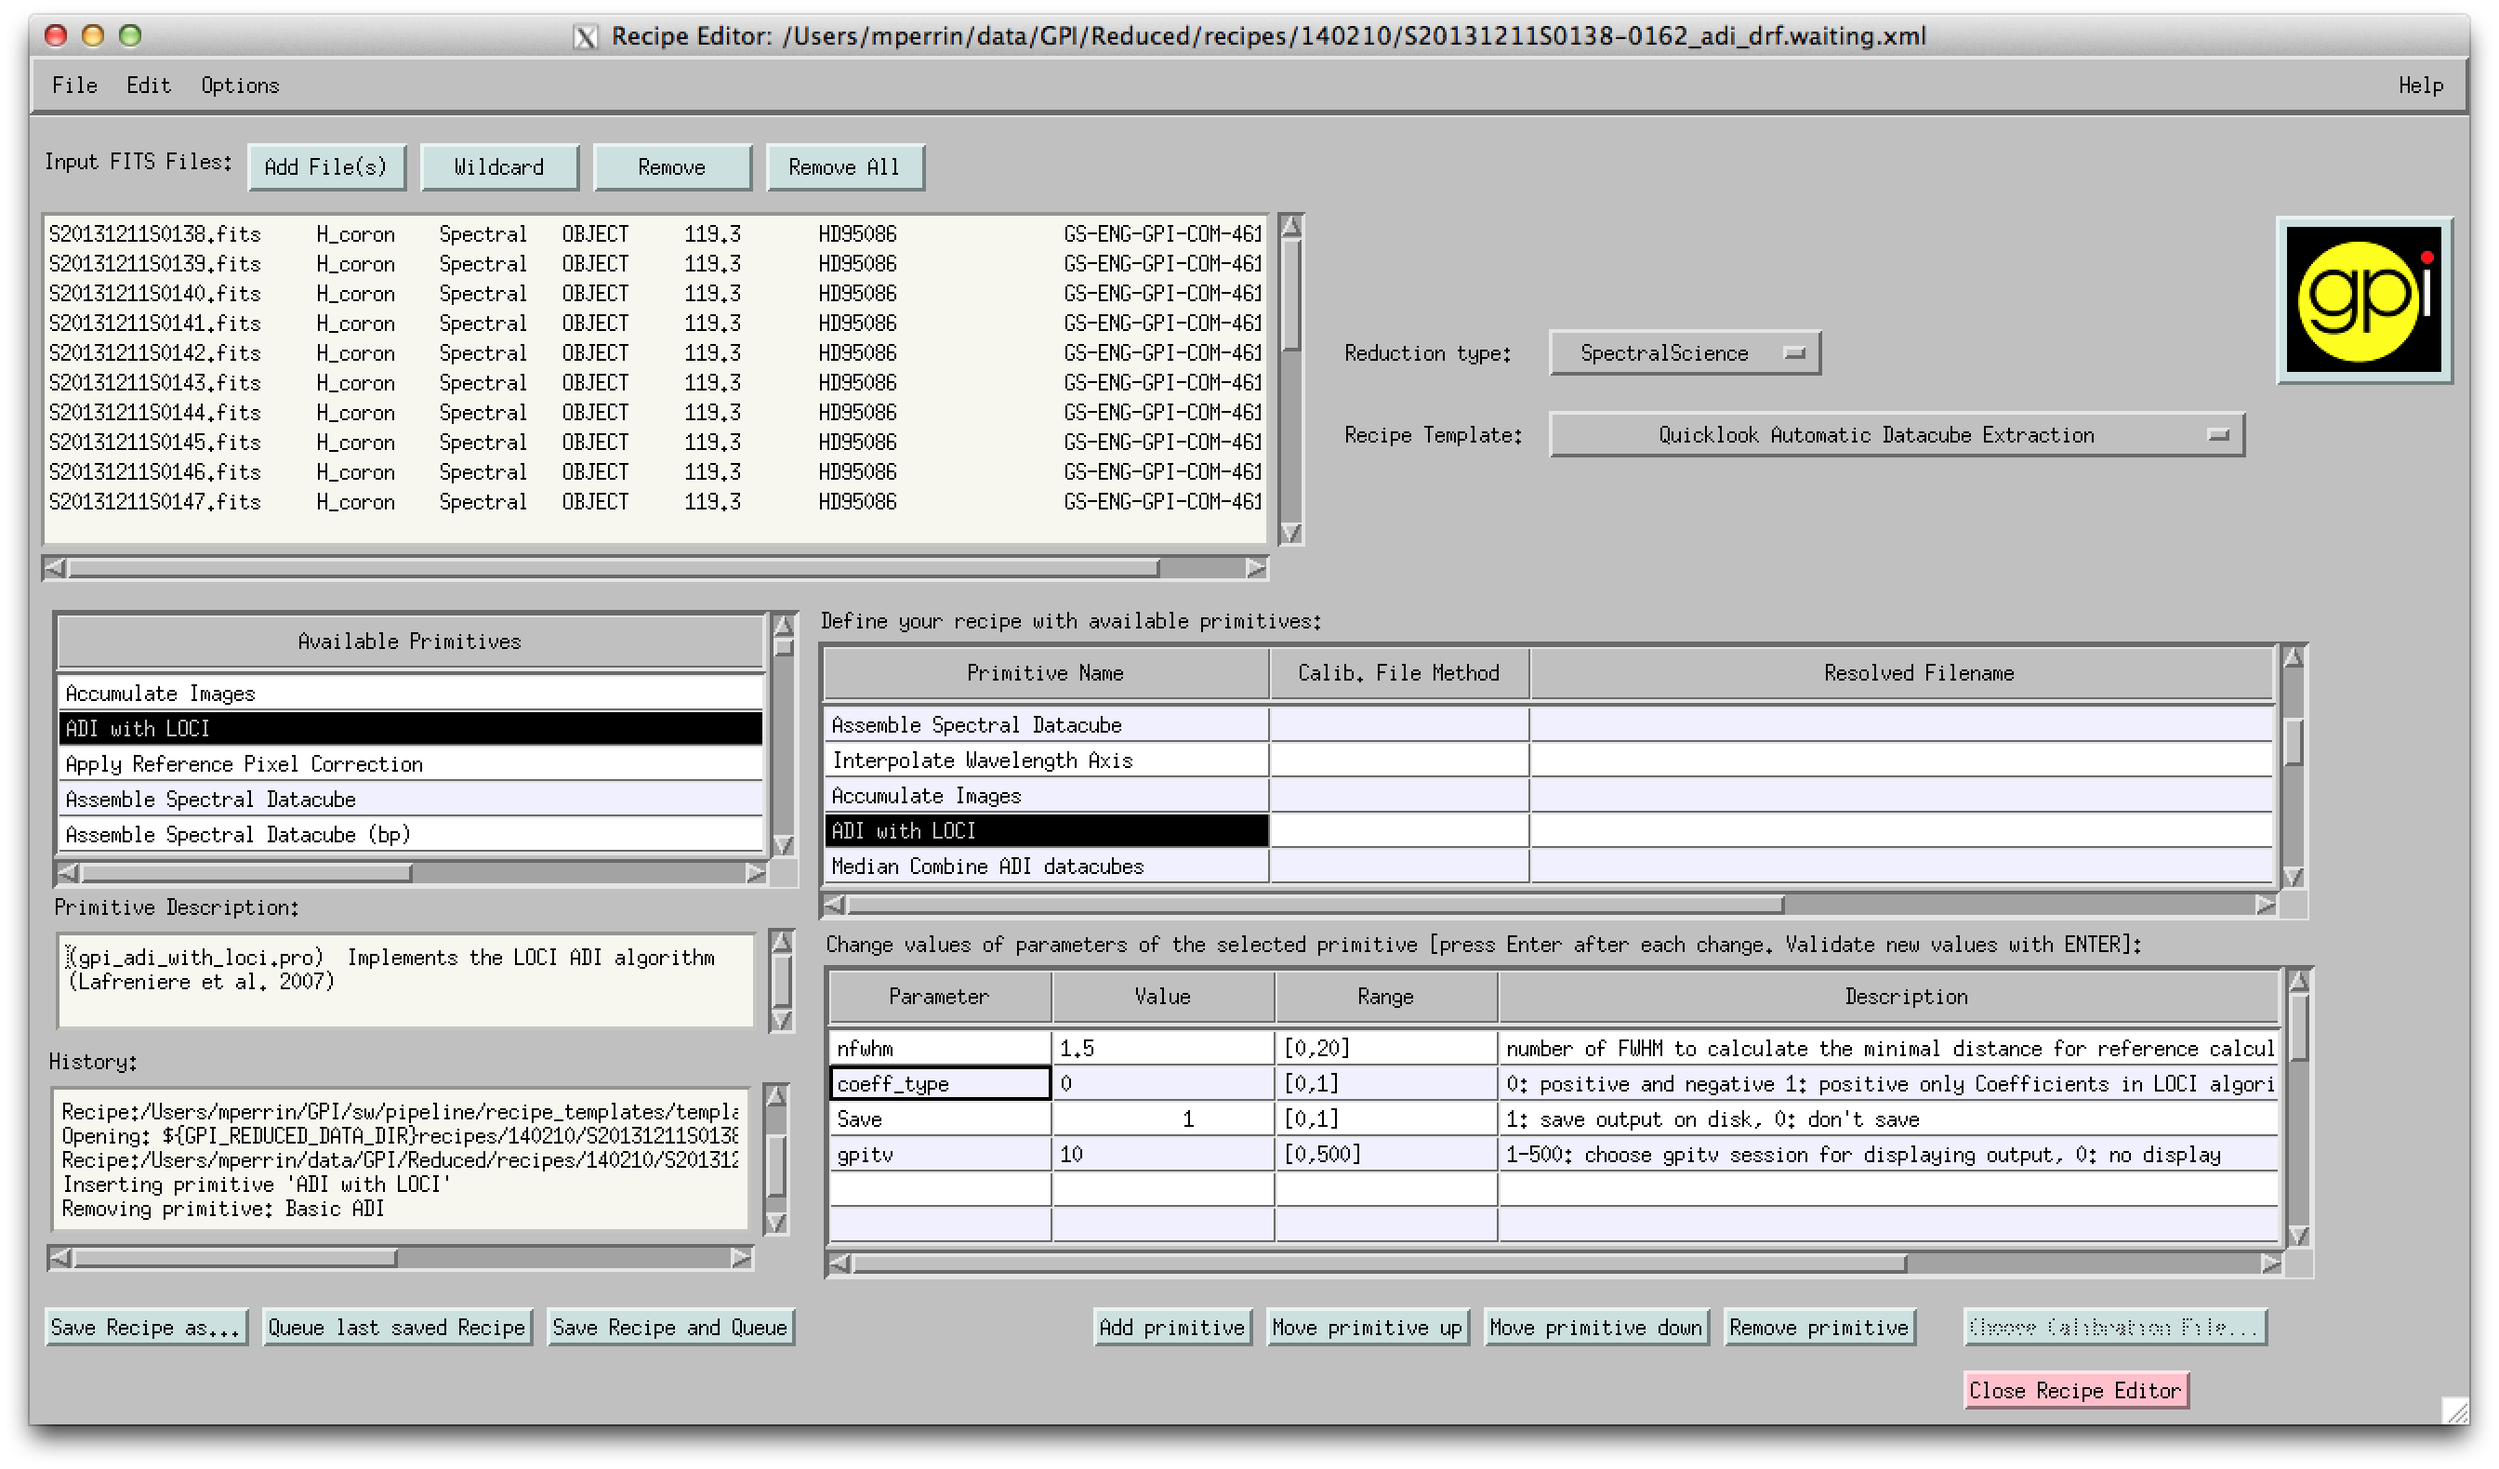
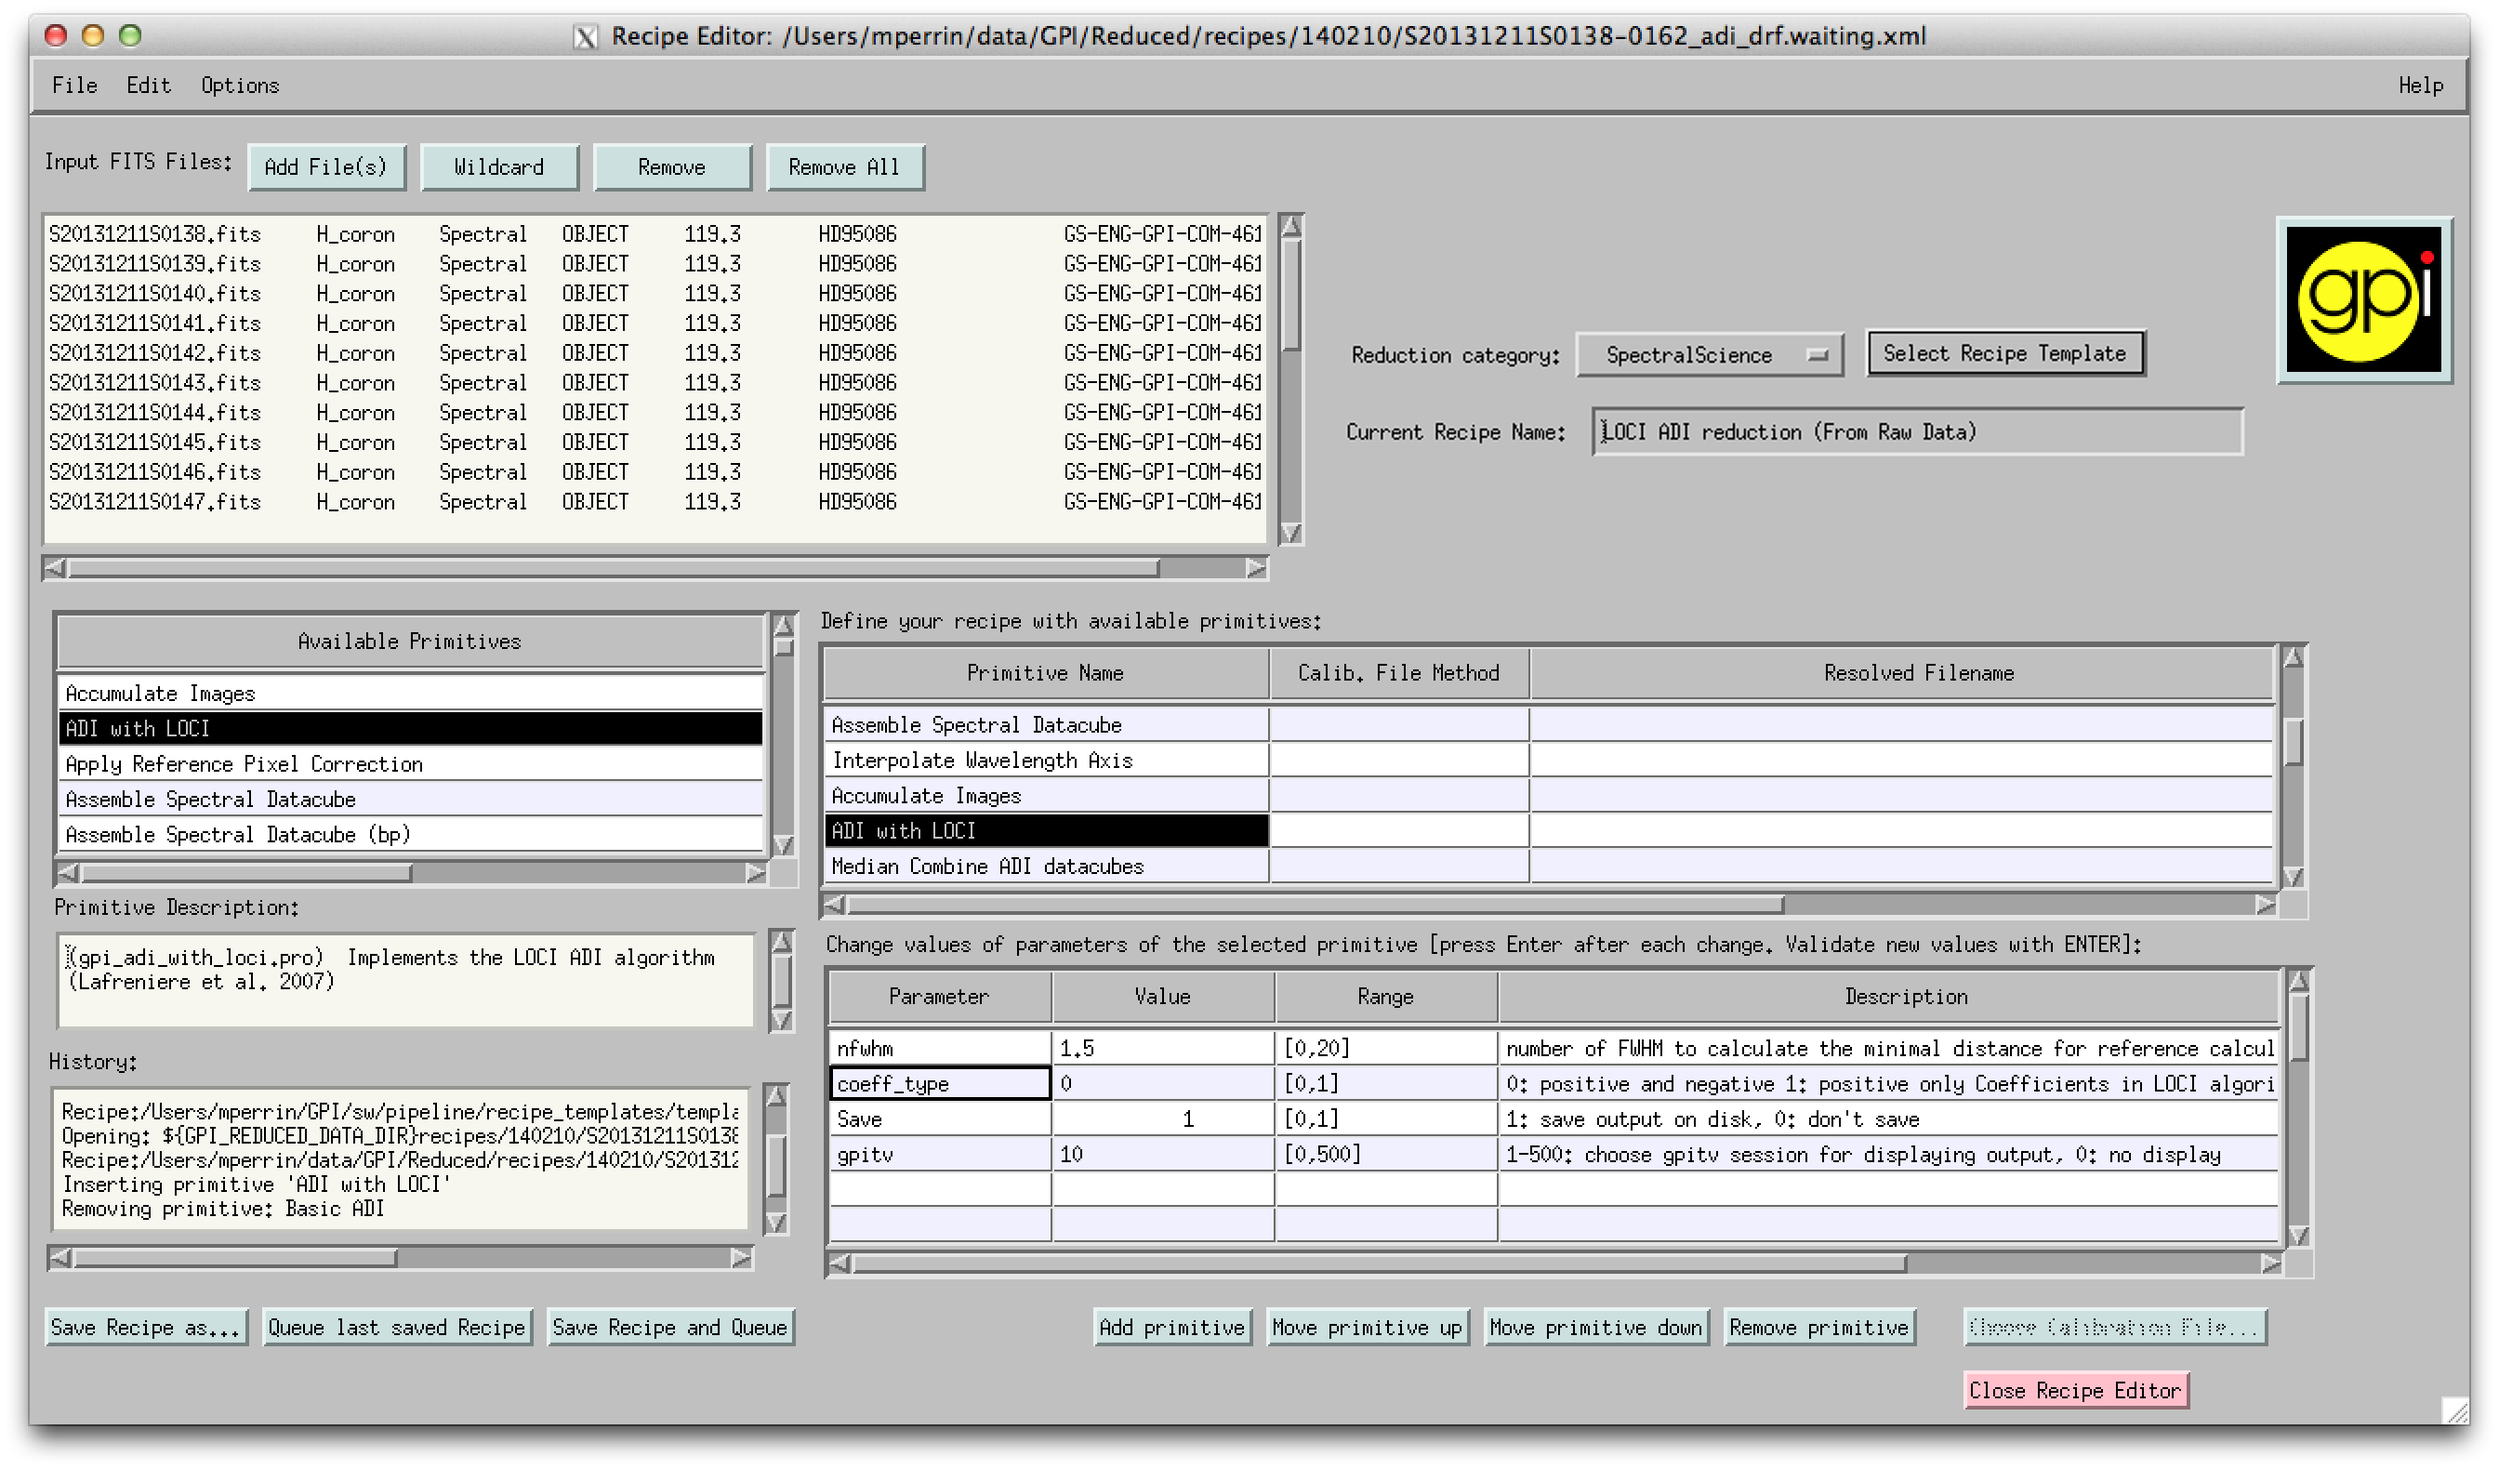
updated recipe editor usage docs to reflect latest gui changes

Changed region(s): [[0.5312, 0.2171, 0.9062, 0.3101]]

diff --git a/documentation/usage/recipe_editor.rst b/documentation/usage/recipe_editor.rst
@@ -36,11 +36,18 @@ The main sections of the Recipe Editor screen are as follows:
 along with buttons for adding or removing them.  
 Double clicking on any file name in this list will bring up a gpitv viewer displaying that file.
 
-**Selecting Recipes Templates**: To the right are
-two dropdown lists for selecting (a) a reduction type and (b) one of several
-predefined reduction templates available for the chosen reduction
-type. Selecting one of these templates causes that template to be
-loaded into the primitives editing area.
+**Selecting Recipes Templates**: To the right is a dropdown list for selecting the reduction type
+and a button that allows you to load a predefined recipe template.  Clicking this button will produce
+a menu of template options as in the figure below:
+
+.. image:: fig_recipeeditor_templateselect.png
+        :width: 1309 px
+        :scale: 40%
+        :align: center
+
+Selecting one of these templates causes that template to be
+loaded into the primitives editing area.  Changing the reduction category changes the templates and primitives that 
+are available for selection.
 
 **Primitives and Arguments**: 
 The bottom two thirds of the window are devoted to several tables for editing the contents of the current recipe.
@@ -55,7 +62,7 @@ clicked.  To add a primitive to the current recipe, select it and press the 'Add
 Primitive' button, or as a short cut you can right click on it.  Similarly,
 selecting a primitive in the recipe and pressing the 'Remove Primitive' button will do so. 
 
-For primitives with adjustible parameters, when that primitive is selected in the Primitives table, its parameters will be shown in the lower right table.
+For primitives with adjustable parameters, when that primitive is selected in the Primitives table, its parameters will be shown in the lower right table.
 Values for the arguments can be set by double-clicking on a value to
 edit it. The Range column displays the range of allowable values. After entering a new value, don't forget to press enter to validate and apply the input.
 
